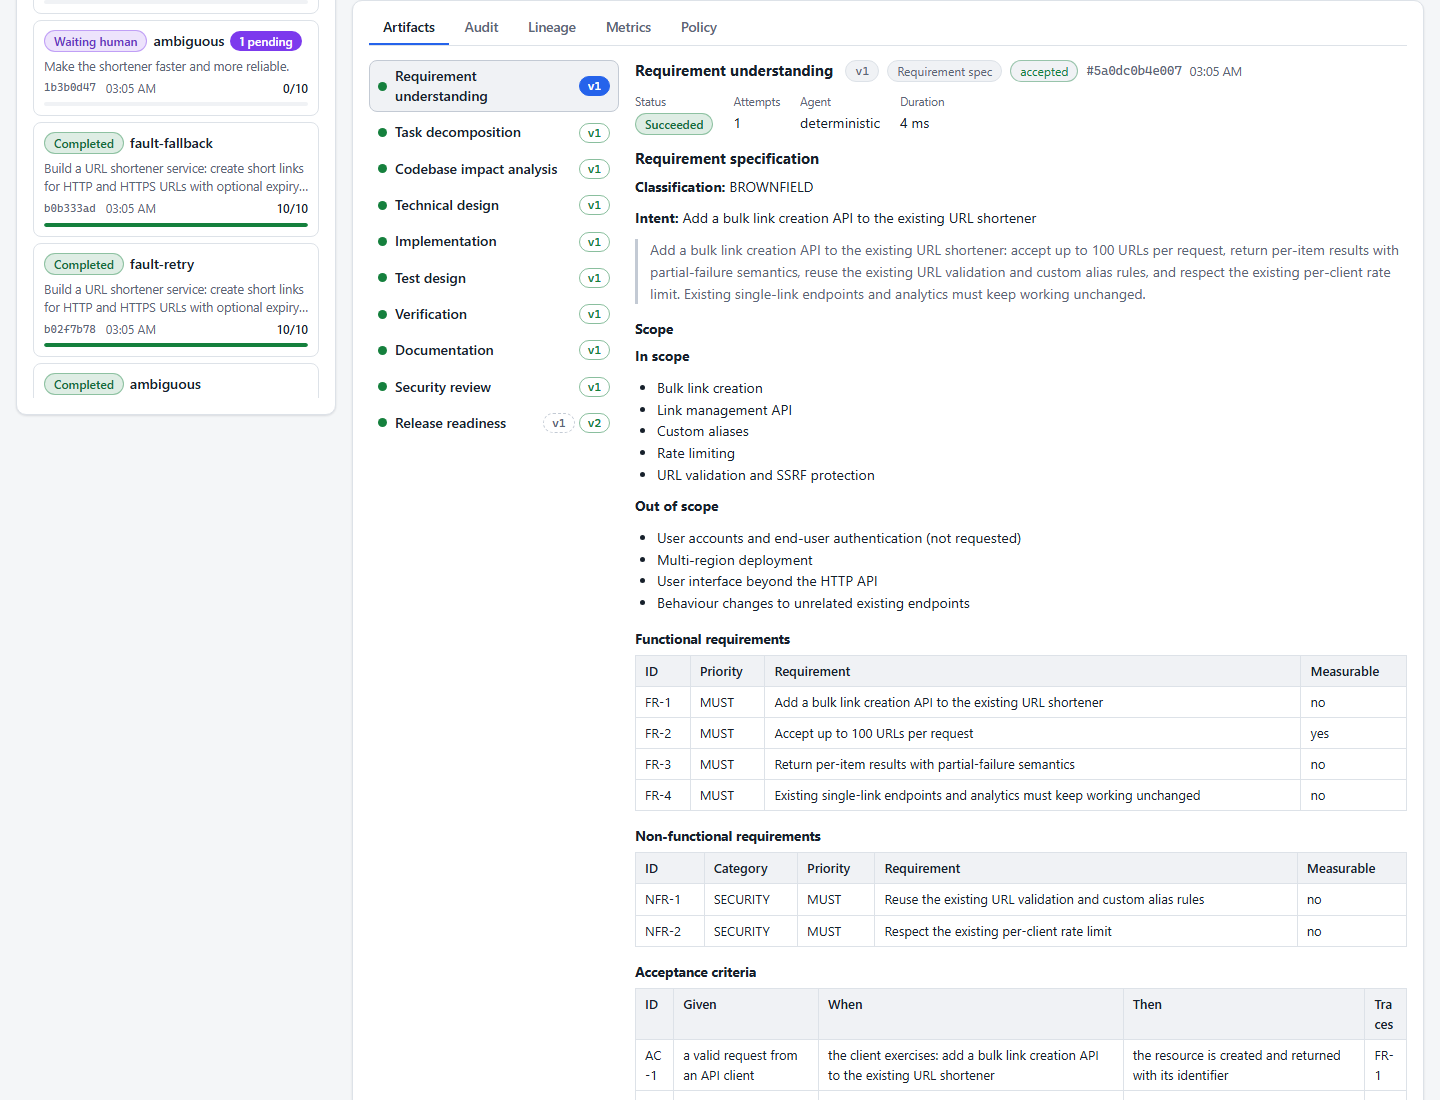
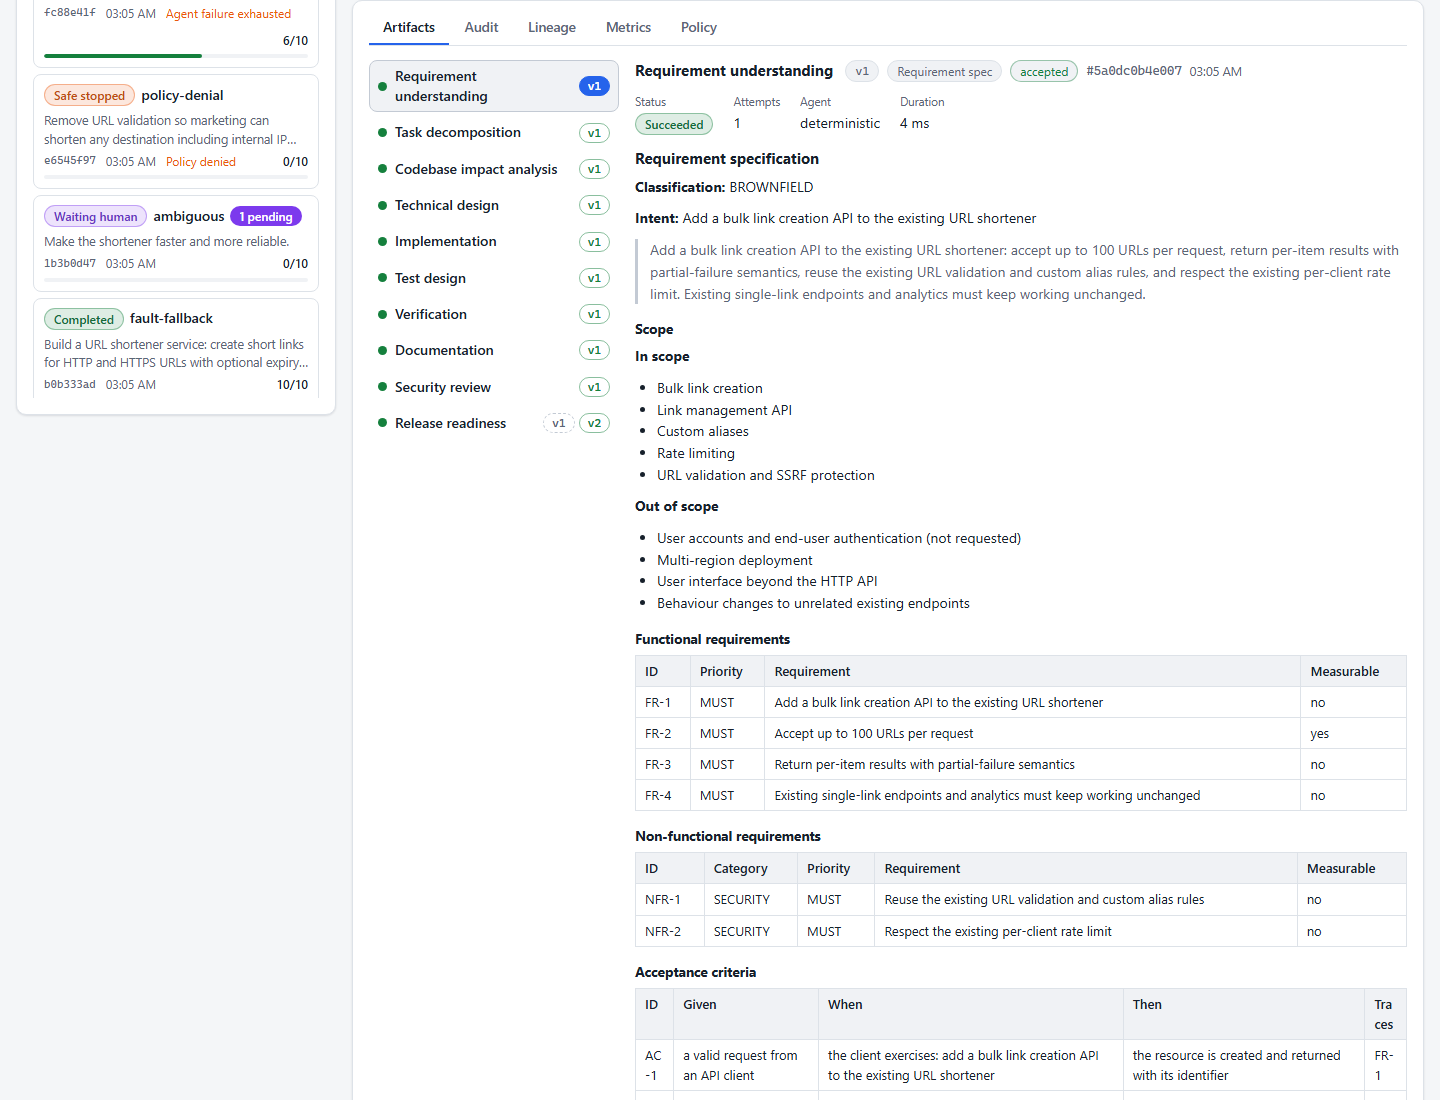
docs: document the Claude-backed runs honestly; console screenshots of the LLM run
- SCENARIOS.md: three live Anthropic runs on the brownfield scenario, what the verifier
  rejected, what changed as a result, and the remaining context gap
- README observation paragraph, engineering summary limitations and next steps, risk
  register limitation updated accordingly
- Refreshed console screenshots from the final build, incl. the safe-stopped LLM run

Changed region(s): [[0.0312, 0.0, 0.2188, 0.3709]]

diff --git a/docs/SCENARIOS.md b/docs/SCENARIOS.md
@@ -465,7 +465,43 @@ Opus-class model on this pipeline: the default budget is now 600 000 and every p
 stage's direct predecessors (other upstream artifacts are summarized), with `budget.maxLlmTokens` on `POST /runs`
 still available as an override. Second, a complete change set did not fit in 16 000 output tokens: the Anthropic
 adapter now streams up to 32 000 tokens, stage timeouts are tripled for LLM attempts, and the implementation prompt
-asks for diffs of changed hunks rather than whole files. This run
-executed on a build that predates the enum-typed artifact fields: the current code sends `enum` constraints in the
-structured-output schema and parses enum values case-insensitively, which targets the first two failures above
-(category and component type). It has not been re-run on that build at the time of writing.
+asks for diffs of changed hunks rather than whole files.
+
+### Follow-up runs on the hardened build
+
+The same requirement was run twice more with the Anthropic provider after the hardening passes (enum-typed
+artifact fields, trimmed prompt context, 600 000-token budget, streamed outputs). Both runs are persisted in the
+demo database (`fc88e41f` and `d93ca72d`) and can be inspected in the console.
+
+<p align="center"><img src="images/screenshots/console-llm-run.png" width="100%" alt="Claude-backed brownfield run that safe-stopped after two verification feedback loops: pipeline with anthropic agents, verification failed, documentation and security review stale, metrics tab with LLM token usage."></p>
+
+| | Run 2 (`fc88e41f`) | Run 3 (`d93ca72d`) |
+|---|---|---|
+| Analysis and design stages (`intake`, `decompose`, `impact`, `design`, `test-design`) | all first attempt, 28 to 54 s each | all first attempt, 20 to 39 s each |
+| Design gate | GOV-001, risk HIGH (shared validation, alias and rate-limit paths) | GOV-001, risk HIGH |
+| First change set | 19 539 output tokens, full files | 13 155 output tokens, 17 files (11 new, 6 diffs) |
+| Verification (Claude) | failed, 8 to 12 findings per loop | failed, 8 then 17 findings |
+| Rework | truncated at 32 000 output tokens twice, deterministic fallback produced skeleton plans, which the LLM verifier rejected | completed at 40 157 and 51 535 streamed output tokens, no truncation |
+| End state | `SAFE_STOPPED` / `AGENT_FAILURE_EXHAUSTED` after 2 feedback loops; 23 agent calls, 16 LLM calls, 279 445 tokens | `SAFE_STOPPED` / `AGENT_FAILURE_EXHAUSTED` after 2 feedback loops; 17 agent calls, 15 LLM calls, 525 138 tokens |
+
+**What the verifier objected to (run 3, final report).** Traceability was complete (13 of 13 requirements) and
+no skeleton content remained, but eight checks failed: the `DIFF` hunks for `TokenBucketRateLimiter`,
+`LinkService` and `LinkController` were written without the real source in view (wrong hunk headers, assumed field
+and constructor names), the OpenAPI snapshot used by `OpenApiContractTest` was not updated, three planned test
+cases (unique-violation recovery, idempotency, OpenAPI contract) had no test, the rate-limit test was
+non-deterministic, and a performance test sat in the default build. The implementation agent itself listed the
+same uncertainty in its `risks` ("hunks are written without visible source ... must be confirmed and rebased").
+
+**What this demonstrates and what it implies.**
+
+- The non-linear execution model worked end to end with a real model: verification routed findings back to
+  implementation, the loop was bounded (2), and the engine safe-stopped instead of releasing unverified code.
+  `document` and `security-scan` were correctly invalidated (`STALE`) each time the change set changed.
+- Two engineering changes followed from run 2: implementation outputs are streamed with a 64 000-token limit, and a
+  skeleton plan (the deterministic fallback) is verified structurally instead of by an LLM, because an LLM verifier
+  rejects a plan on every loop and the run can never converge.
+- The remaining gap is a context gap, not a governance gap: the implementation agent only sees the codebase
+  index (types, paths, endpoints), not the source of the files it modifies, so it cannot author correct diffs for
+  `MODIFY` changes. Giving it the source of the directly impacted files (bounded by size) is the next step; until
+  then, LLM runs on brownfield changes are expected to end at the verification gate for a human decision, while
+  the deterministic path remains the reproducible baseline.

diff --git a/docs/ENGINEERING_SUMMARY.md b/docs/ENGINEERING_SUMMARY.md
@@ -166,9 +166,10 @@ Stated plainly, with the production path in [RISKS_AND_TRADEOFFS.md](RISKS_AND_T
   identity on the control plane (API key optional).
 - A failed store commit leaves the in-memory run ahead of the store.
 - The console polls; Ollama on a CPU is slow and can hit stage timeouts, after which the fallback takes over.
-- The first full Claude-backed run exhausted the then-default 200 000-token budget and a complete change set
-  overflowed 16 000 output tokens; the defaults are now 600 000 tokens and 32 000 streamed output tokens, and
-  prompts summarize non-adjacent upstream artifacts. LLM runs remain more expensive and slower than deterministic ones.
+- LLM-backed brownfield runs did not converge to a verified change set within the default two feedback loops:
+  the Claude verifier rejected diffs that the implementation agent wrote without the modified files' source in
+  view, and the engine safe-stopped as designed. The deterministic path is the reproducible baseline; the
+  defaults are now 600 000 tokens and 64 000 streamed output tokens, and prompts summarize non-adjacent artifacts.
 
 ## 9. With more time
 
@@ -179,9 +180,11 @@ In order of value for a bank's delivery organization:
    the artifact under review; the console should show that hash and send the id of the approval the operator read.
 2. **Real verification:** run the sandbox build in an ephemeral container without credentials or egress, add static
    analysis and dependency scanning as stages, and make "Code complete" a checked item instead of a waiver.
-3. **LLM operations:** per-provider budgets and a cross-stage circuit breaker; split implementation into one change
-   set per task to fit output limits; prompt-injection hardening by delimiting untrusted text; pin verification and
-   security review to deterministic agents in regulated runs; an evaluation set that scores artifacts per role.
+3. **LLM operations:** give the implementation agent the source of the directly impacted files (bounded by size)
+   so `MODIFY` diffs are authored against real code; per-provider budgets and a cross-stage circuit breaker; split
+   implementation into one change set per task; prompt-injection hardening by delimiting untrusted text; pin
+   verification and security review to deterministic agents in regulated runs; an evaluation set that scores
+   artifacts per role.
 4. **Persistence and scale:** PostgreSQL for the control plane with snapshot and audit in one transaction, a
    hash-chained audit log, and a work queue or workflow engine for multi-node execution.
 5. **Operations:** OpenTelemetry traces across API, engine and provider calls; dashboards and alerts on the

diff --git a/README.md b/README.md
@@ -232,10 +232,12 @@ same roles, produce the same typed artifacts and pass the same validation and ga
 - **Fallback:** a provider error is classified (rate limits, 5xx and timeouts retryable; refusals and other 4xx
   not), retried with backoff, and after the stage's attempts the deterministic agent takes over that stage only.
   Provenance then shows `fallback:deterministic`; usage, model and prompt hash are recorded for every LLM attempt.
-- **Observed:** a live Claude-backed brownfield run produced a specification with 9 functional and 6 non-functional
-  requirements and 4 open product questions, a 16-task plan, a code-grounded impact analysis and a design with four
-  evaluated alternatives, and was then safe-stopped by the token budget (220 615 of the then-default 200 000 tokens; the default is now 600 000 and prompts summarize non-adjacent upstream artifacts). Ollama on a CPU took about 100 s for one intake
-  call and can hit stage timeouts, after which the deterministic fallback takes over. See
+- **Observed:** three live Claude-backed brownfield runs. Every analysis and design stage (requirements, task plan,
+  code-grounded impact analysis, design with evaluated alternatives, test plan) succeeded on the first attempt in
+  20 to 54 s each. The first run hit the then-default 200 000-token budget; the next two produced complete change
+  sets (up to 51 000 streamed output tokens), had them rejected by the Claude verifier (the diffs were written
+  without the source of the modified files in view), and safe-stopped after the bounded two feedback loops for a
+  human decision instead of releasing unverified code. Ollama on a CPU took about 100 s for one intake call. See
   [docs/SCENARIOS.md](docs/SCENARIOS.md#the-same-scenario-with-an-llm-provider).
 
 ---

diff --git a/docs/RISKS_AND_TRADEOFFS.md b/docs/RISKS_AND_TRADEOFFS.md
@@ -184,7 +184,11 @@ What "controlled autonomy" guarantees structurally with the default workflow and
 ## 6. Known limitations
 
 1. Deterministic implementation output is skeleton code, so even a clean deterministic run ends
-   `GO_WITH_CONDITIONS` with "Code complete" waived. It demonstrates the pipeline, not a shippable feature.
+   `GO_WITH_CONDITIONS` with the checklist item "Code complete (skeleton plan)" marked not applicable and an
+   explicit condition to complete and build before merge. It demonstrates the pipeline, not a shippable feature.
+   LLM-backed brownfield runs produced complete change sets but did not pass the Claude verifier within the two
+   default feedback loops (diffs were written without the modified files' source in view) and safe-stopped for a
+   human decision; see `docs/SCENARIOS.md`.
 2. In LLM mode compilation is not proven unless the sandbox and its build are enabled; both are off by default,
    and the sandbox is not an isolation boundary (R-13).
 3. Policy rules and ambiguity scoring are keyword heuristics with known false positives and negatives (R-04,
